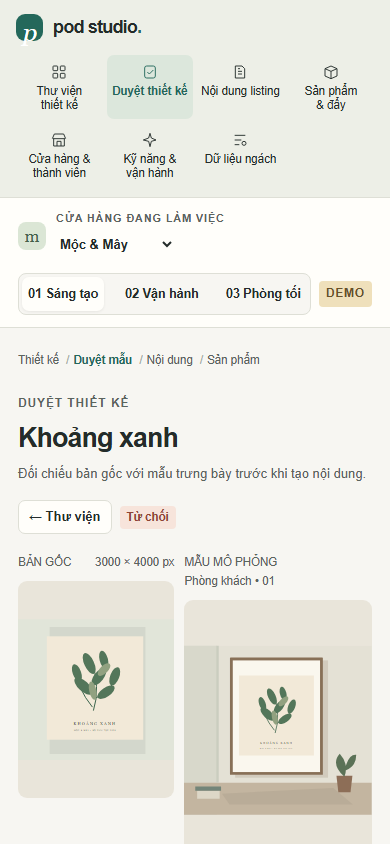
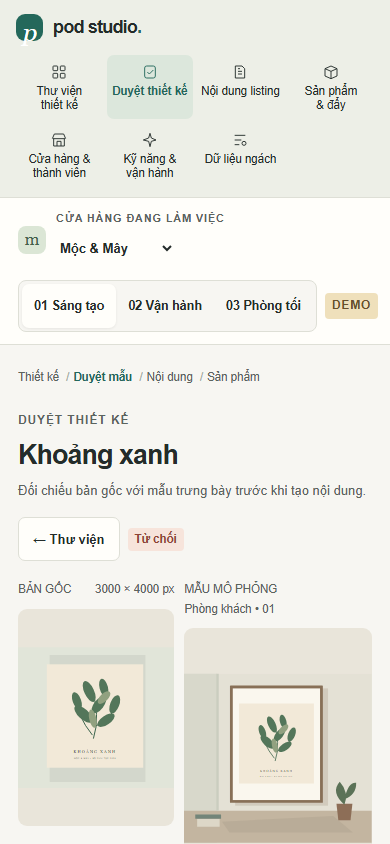
fix(wireframes): enforce 44px touch targets at 390px
- Add a <=420px floor: buttons, selects, summaries, text inputs and
  check lines are at least 44px tall; icon-only buttons at least 44px
  wide; card select/open controls grow to 44x44.
- Avoid a blanket min-width on buttons so flex tabs keep their labels.
- Add a regression check for 44px targets at 390px across all screens
  and visual directions; suite now 109/109. Refresh screenshots/docs.

diff --git a/design/wireframes/index.html b/design/wireframes/index.html
@@ -16,6 +16,7 @@
 .reviewpair{grid-template-columns:minmax(0,1fr) minmax(0,1.2fr)}.reviewpair>div{min-width:0}.caption{flex-wrap:wrap;gap:2px 8px}.split>*{min-width:0}@media(max-width:760px){.split{grid-template-columns:minmax(0,1fr)}}.toast{top:auto;bottom:var(--toast-bottom,24px);pointer-events:none}dialog.drawer[open]{display:flex;flex-direction:column}dialog.drawer .dialogfoot{margin-top:auto}
 @media(max-width:760px){.nav{display:grid;grid-template-columns:repeat(4,minmax(0,1fr));gap:4px;overflow:visible;padding-bottom:10px}.nav button{flex-direction:column;justify-content:flex-start;gap:4px;padding:9px 3px 6px;min-height:52px;font-size:11.5px;line-height:1.25;text-align:center;white-space:normal}.nav button span{overflow-wrap:anywhere;text-wrap:balance}.nav button svg{width:16px;height:16px}}
 .nsteps{display:grid;grid-template-columns:repeat(5,minmax(0,1fr));gap:8px;margin:20px 0}.nsteps button{display:flex;flex-direction:column;align-items:flex-start;gap:4px;text-align:left;padding:11px 12px;min-width:0;white-space:normal}.nsteps button span:not(.badge){font-weight:600;font-size:13px;line-height:1.3}.nsteps button[aria-current=step]{border-color:var(--teal);box-shadow:inset 0 -3px 0 var(--teal)}.nsecwrap{container-type:inline-size}.nsec{columns:2 340px;column-gap:16px}@media(min-width:761px){@container (min-width:696px){.nsec[data-nsec-step="4"]{display:grid;grid-template-columns:repeat(2,minmax(0,1fr));column-gap:16px;align-items:start}.nsec[data-nsec-step="4"] [data-section="ip_safety"]{grid-column:2;grid-row:1/span 2;align-self:stretch}}}.nsec .nsection{break-inside:avoid;margin:0 0 16px;display:block}.nsection h3{margin:0 0 12px}.nfield{border-top:1px solid var(--line);padding:12px 0}.nfield:first-of-type{border-top:0;padding-top:0}.nfield .meta{display:block;overflow-wrap:anywhere}.progress{height:6px;border-radius:4px;background:var(--line);margin:8px 0 4px;overflow:hidden}.progress i{display:block;height:100%;background:var(--teal)}.nkv{display:grid;grid-template-columns:auto minmax(0,1fr);gap:8px 14px;font-size:13px}.nkv code,.nerrs code{overflow-wrap:anywhere}.scoregrid{display:grid;grid-template-columns:repeat(2,minmax(0,1fr));gap:10px}.scoregrid select,#nicheStatus,#nicheMaxColors{display:block;width:100%;margin-top:6px;padding:8px}.nqa{margin:0 0 12px;padding-left:18px;line-height:1.7}.nerrline{color:#9d4f3d;font-size:12.5px}.nresult{margin-top:16px}.nerrs{list-style:none;margin:0;padding:0}.nerrs li{display:flex;justify-content:space-between;gap:10px;align-items:center;padding:8px 0;border-top:1px solid var(--line)}.nbuilt{color:var(--teal);font-weight:600}.nbar{position:sticky;bottom:0;z-index:5;display:flex;justify-content:space-between;align-items:center;gap:12px;flex-wrap:wrap;margin-top:16px;padding:12px 14px;background:var(--paper);border:1px solid var(--line);border-radius:var(--radius)}.nbtns{display:flex;gap:8px;flex-wrap:wrap}@media(max-width:1150px){.nsteps{grid-template-columns:repeat(3,minmax(0,1fr))}}@media(max-width:760px){.nsteps{grid-template-columns:repeat(2,minmax(0,1fr))}.nsec{columns:1}.scoregrid{grid-template-columns:1fr}.nbar{flex-direction:column;align-items:stretch}.nbtns button{flex:1}}@media(min-width:600px) and (max-width:760px){.topbar{flex-wrap:nowrap}.topright{width:auto;flex:0 1 auto;justify-content:flex-end}.direction{flex:0 1 auto}}
+@media(max-width:420px){button,select,summary,input:not([type=checkbox]):not([type=radio]):not([type=range]),label.checkline{min-height:44px}button[aria-label]{min-width:44px}.skip{display:inline-flex;align-items:center;min-height:44px}.direction button{min-height:44px;padding:6px 12px}.pills button,button.small{padding:10px 14px}.cardcheck,.cardopen{width:44px;height:44px}.cardopen{bottom:9px;right:9px}}
 @media(max-width:420px){.nbar{position:static}.nsteps{display:flex;overflow-x:auto}.nsteps button{flex:0 0 150px}.nbtns{display:grid;grid-template-columns:1fr 1fr}.nbtns .primary{grid-column:1/-1}.nerrs li{flex-direction:column;align-items:stretch}}
 </style>
 </head>

diff --git a/docs/plan.md b/docs/plan.md
@@ -131,7 +131,7 @@ Xem `packages/contracts/README.md`. Điểm chính cần ngatruong123 duyệt:
 | 6 | Skills và vận hành | admin, người viết skill | Thư viện skill 3 loại, account AI (kèm trạng thái đăng nhập lại), worker |
 | 7 | Dữ liệu ngách | người viết skill, người publish | Soạn niche master data 5 bước, validator có nút Sửa, chấm 6 tiêu chí, build skill version |
 
-Kiểm bằng máy: `node design/wireframes/test-wireframes.mjs` đạt 108/108 (điều hướng, phím tắt, quyền, luật tối thiểu và chấm điểm màn 7, không tràn ngang ở 1024/760/390 trên cả 7 màn, tương phản WCAG AA, chữ tối thiểu 11px, vùng bấm tối thiểu 32px ở cả 3 hướng thị giác).
+Kiểm bằng máy: `node design/wireframes/test-wireframes.mjs` đạt 109/109 (điều hướng, phím tắt, quyền, luật tối thiểu và chấm điểm màn 7, không tràn ngang ở 1024/760/390 trên cả 7 màn, tương phản WCAG AA, chữ tối thiểu 11px, vùng bấm tối thiểu 32px ở cả 3 hướng thị giác và 44px ở 390px).
 
 ## 7b. Niche master data và build skill (tóm tắt ADR 0003)
 
